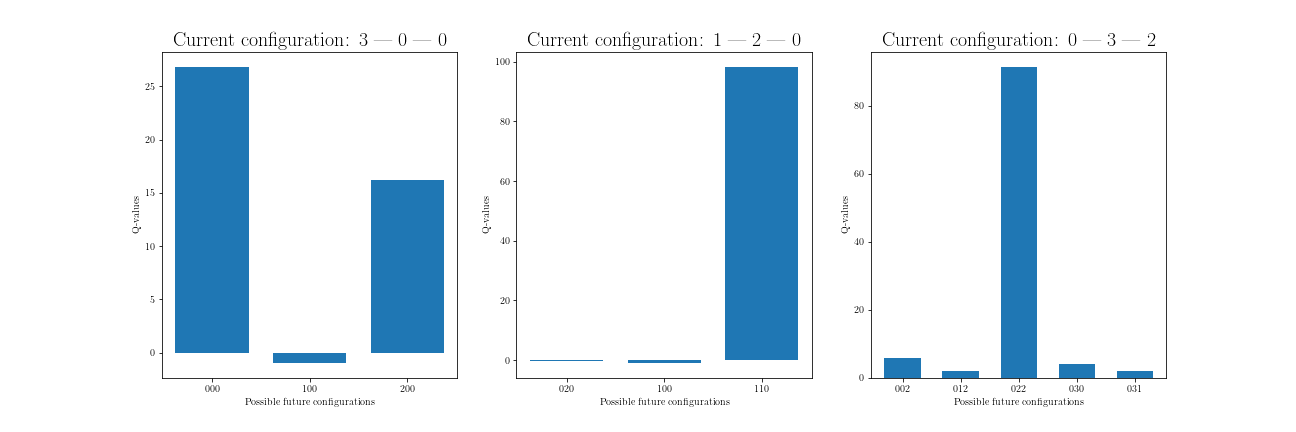
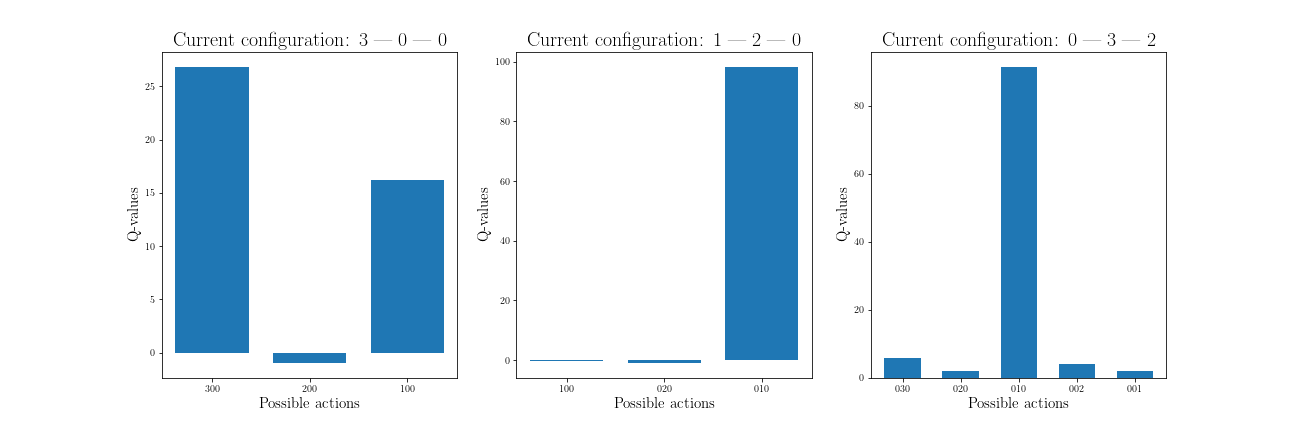
last images

diff --git a/.ipynb_checkpoints/helpers-checkpoint.py b/.ipynb_checkpoints/helpers-checkpoint.py
@@ -8,9 +8,9 @@ import warnings
 
 plt.rc('text', usetex=True)
 plt.rc('font', family='serif')
-plt.rc('font', size=11)
-plt.rc('axes',titlesize=20)
-plt.rc('legend',fontsize=11)
+plt.rc('font', size=15)
+plt.rc('axes',titlesize=20, labelsize = 15)
+plt.rc('legend',fontsize=15)
 plt.rc('figure',titlesize=20)
 
 def QL_one_game(playerQL, playerOpt, eps, eps_opt, alpha, gamma, env, update = True):
@@ -690,37 +690,39 @@ def Q10(qval, configs = ['300', '120', '032'], question = 'q2-10', save = True):
     tick_positions2 = np.linspace(1. / len2 , 1, len2, endpoint = False)
     tick_positions3 = np.linspace(1. / len3 , 1, len3, endpoint = False)
     
-    tick_labels1 = [t for t in qval[first_config].keys()]
+    keys1 = [t for t in qval[first_config].keys()]
+    tick_labels1 = [str(int(first_config[0]) - int(keys1[i][0])) + str(int(first_config[1]) - int(keys1[i][1])) + str(int(first_config[2]) - int(keys1[i][2])) for i in range(len(keys1))]
     qvals1 = [q for q in qval[first_config].values()]
     ax1.set_xticks(tick_positions1)
     ax1.set_xticklabels(tick_labels1)
-    ax1.set_xlabel('Possible future configurations')
+    ax1.set_xlabel('Possible actions')
     ax1.set_ylabel('Q-values')
     ax1.set_title('Current configuration: ' + str(first_config[0]) + ' | ' + str(first_config[1]) + ' | ' + str(first_config[2]))
     ax1.bar(tick_positions1, qvals1, width = 1. / (2 * len1))
     
-    tick_labels2 = [t for t in qval[second_config].keys()]
+    keys2 = [t for t in qval[second_config].keys()]
+    tick_labels2 = [str(int(second_config[0]) - int(keys2[i][0])) + str(int(second_config[1]) - int(keys2[i][1])) + str(int(second_config[2]) - int(keys2[i][2])) for i in range(len(keys2))]
     qvals2 = [q for q in qval[second_config].values()]
     ax2.set_xticks(tick_positions2)
     ax2.set_xticklabels(tick_labels2)
-    ax2.set_xlabel('Possible future configurations')
+    ax2.set_xlabel('Possible actions')
     ax2.set_ylabel('Q-values')
     ax2.set_title('Current configuration: ' + str(second_config[0]) + ' | ' + str(second_config[1]) + ' | ' + str(second_config[2]))
     ax2.bar(tick_positions2, qvals2, width = 1. / (2 * len2))
     
-    tick_labels3 = [t for t in qval[third_config].keys()]
+    keys3 = [t for t in qval[third_config].keys()]
+    tick_labels3 = [str(int(third_config[0]) - int(keys3[i][0])) + str(int(third_config[1]) - int(keys3[i][1])) + str(int(third_config[2]) - int(keys3[i][2])) for i in range(len(keys3))]
     qvals3 = [q for q in qval[third_config].values()]
     ax3.set_xticks(tick_positions3)
     ax3.set_xticklabels(tick_labels3)
-    ax3.set_xlabel('Possible future configurations')
+    ax3.set_xlabel('Possible actions')
     ax3.set_ylabel('Q-values')
     ax3.set_title('Current configuration: ' + str(third_config[0]) + ' | ' + str(third_config[1]) + ' | ' + str(third_config[2]))
     ax3.bar(tick_positions3, qvals3, width = 1. / (2 * len3))
 
     if save:
         fig.savefig('./Data/' + question + '.png')
-    
-    
+ 
     
     
     

diff --git a/helpers.py b/helpers.py
@@ -8,9 +8,9 @@ import warnings
 
 plt.rc('text', usetex=True)
 plt.rc('font', family='serif')
-plt.rc('font', size=11)
-plt.rc('axes',titlesize=20)
-plt.rc('legend',fontsize=11)
+plt.rc('font', size=15)
+plt.rc('axes',titlesize=20, labelsize = 15)
+plt.rc('legend',fontsize=15)
 plt.rc('figure',titlesize=20)
 
 def QL_one_game(playerQL, playerOpt, eps, eps_opt, alpha, gamma, env, update = True):
@@ -690,37 +690,39 @@ def Q10(qval, configs = ['300', '120', '032'], question = 'q2-10', save = True):
     tick_positions2 = np.linspace(1. / len2 , 1, len2, endpoint = False)
     tick_positions3 = np.linspace(1. / len3 , 1, len3, endpoint = False)
     
-    tick_labels1 = [t for t in qval[first_config].keys()]
+    keys1 = [t for t in qval[first_config].keys()]
+    tick_labels1 = [str(int(first_config[0]) - int(keys1[i][0])) + str(int(first_config[1]) - int(keys1[i][1])) + str(int(first_config[2]) - int(keys1[i][2])) for i in range(len(keys1))]
     qvals1 = [q for q in qval[first_config].values()]
     ax1.set_xticks(tick_positions1)
     ax1.set_xticklabels(tick_labels1)
-    ax1.set_xlabel('Possible future configurations')
+    ax1.set_xlabel('Possible actions')
     ax1.set_ylabel('Q-values')
     ax1.set_title('Current configuration: ' + str(first_config[0]) + ' | ' + str(first_config[1]) + ' | ' + str(first_config[2]))
     ax1.bar(tick_positions1, qvals1, width = 1. / (2 * len1))
     
-    tick_labels2 = [t for t in qval[second_config].keys()]
+    keys2 = [t for t in qval[second_config].keys()]
+    tick_labels2 = [str(int(second_config[0]) - int(keys2[i][0])) + str(int(second_config[1]) - int(keys2[i][1])) + str(int(second_config[2]) - int(keys2[i][2])) for i in range(len(keys2))]
     qvals2 = [q for q in qval[second_config].values()]
     ax2.set_xticks(tick_positions2)
     ax2.set_xticklabels(tick_labels2)
-    ax2.set_xlabel('Possible future configurations')
+    ax2.set_xlabel('Possible actions')
     ax2.set_ylabel('Q-values')
     ax2.set_title('Current configuration: ' + str(second_config[0]) + ' | ' + str(second_config[1]) + ' | ' + str(second_config[2]))
     ax2.bar(tick_positions2, qvals2, width = 1. / (2 * len2))
     
-    tick_labels3 = [t for t in qval[third_config].keys()]
+    keys3 = [t for t in qval[third_config].keys()]
+    tick_labels3 = [str(int(third_config[0]) - int(keys3[i][0])) + str(int(third_config[1]) - int(keys3[i][1])) + str(int(third_config[2]) - int(keys3[i][2])) for i in range(len(keys3))]
     qvals3 = [q for q in qval[third_config].values()]
     ax3.set_xticks(tick_positions3)
     ax3.set_xticklabels(tick_labels3)
-    ax3.set_xlabel('Possible future configurations')
+    ax3.set_xlabel('Possible actions')
     ax3.set_ylabel('Q-values')
     ax3.set_title('Current configuration: ' + str(third_config[0]) + ' | ' + str(third_config[1]) + ' | ' + str(third_config[2]))
     ax3.bar(tick_positions3, qvals3, width = 1. / (2 * len3))
 
     if save:
         fig.savefig('./Data/' + question + '.png')
-    
-    
+ 
     
     
     
